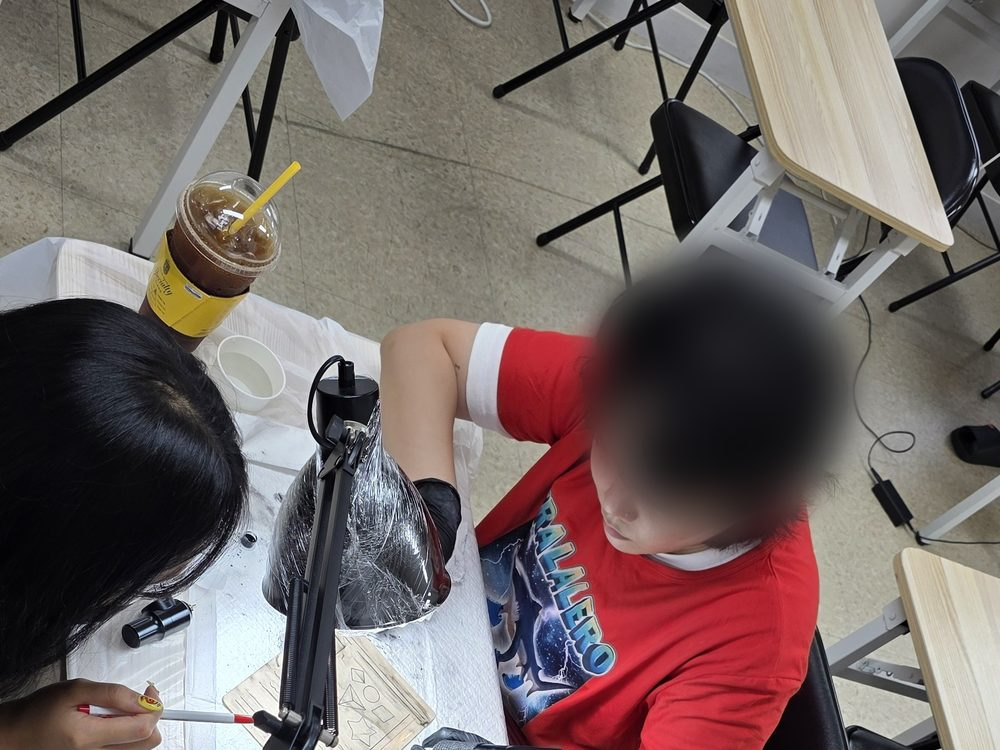
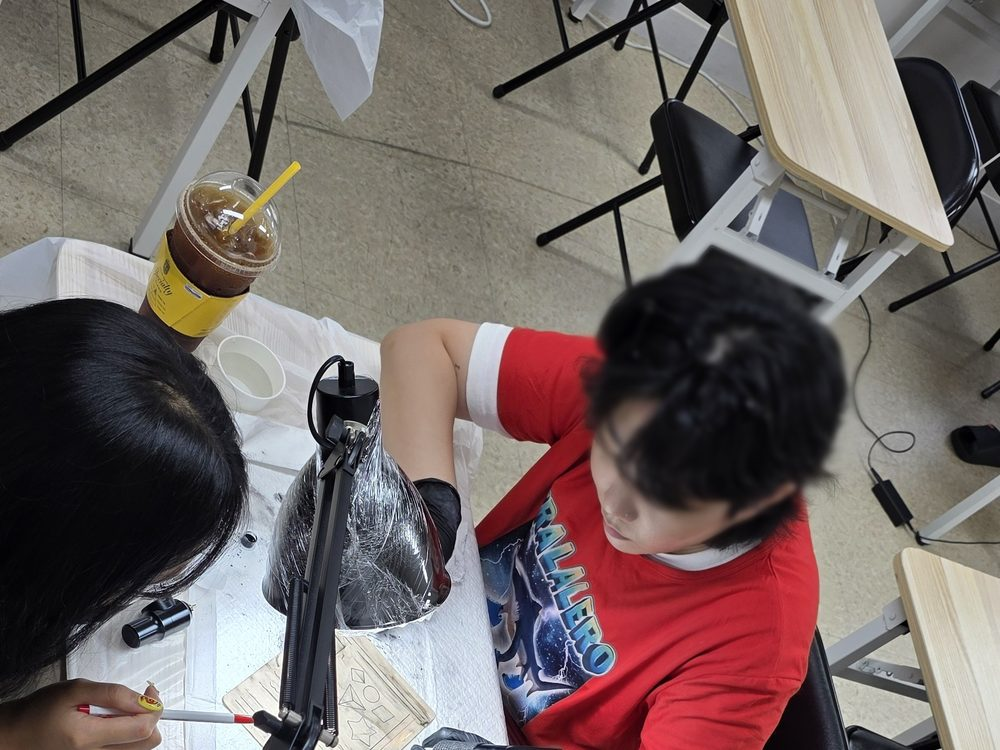
Soften face blur on academy photos; show instructor unblurred
Claude-Session: https://claude.ai/code/session_01QpaGndEZdHaipAwh9XQj6Y

Changed region(s): [[0.558, 0.3067, 0.868, 0.736], [0.713, 0.4293, 0.744, 0.4907]]

diff --git a/CLAUDE.md b/CLAUDE.md
@@ -105,7 +105,7 @@
   - `hero.jpg`: 어두운 수강실 실습 사진 → 맨 위 배경 (어둡게)
   - `tools.jpg`: 타투 머신·그립 사진 흑백 → '실습 위주 교육' 칸 배경
   - `class1.jpg` 실습 수업, `class2.jpg` 이론 수업 → '수업 현장' 칸 (폰에서는 옆으로 넘기기)
-  - **사진 속 사람 얼굴은 모두 흐리게 처리** (허락은 받았지만 대장님이 '혹시 모르니 흐리게' 지시). 강의 사진은 왼쪽 'BLACKGHOST TATTOO ACADEMY' 현수막이 안 보이게 잘라냄.
+  - 사진 속 사람들은 허락을 받았음. 수강생 얼굴만 **아주 약하게** 흐림 처리(대장님 선택: 비교 4단계 중 ④). **강의 사진의 강사는 흐림 없이 그대로.** 강의 사진은 왼쪽 'BLACKGHOST TATTOO ACADEMY' 현수막이 안 보이게 잘라냄.
 - **임시로 정한 것 (대장님 확인 필요)**: 카카오톡은 블랙고스트 오픈채팅과 같게, 위치는 블랙고스트 주소와 같게, 맨 아래 사업자 정보는 [대괄호].
 
 ### 사업자 정보
@@ -179,3 +179,4 @@
 - '100평' 문구 빼고 '대형 타투샵'으로 소개
 - 메뉴에 '타투플레이스' 추가, 학원 안내 페이지 `academy.html` 만듦 (시안에도 화면 추가)
 - 타투플레이스 페이지에 로고(은색)·배경 사진·'수업 현장' 칸 추가, 얼굴 흐림 처리
+- 얼굴 흐림을 아주 약하게 변경, 강사 사진은 흐림 뺌
